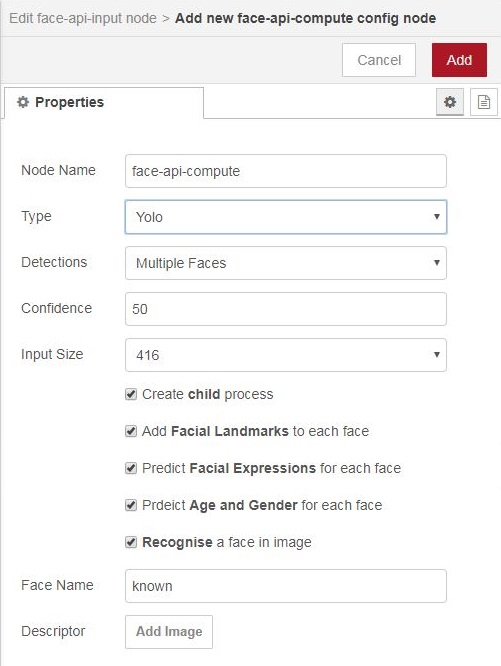
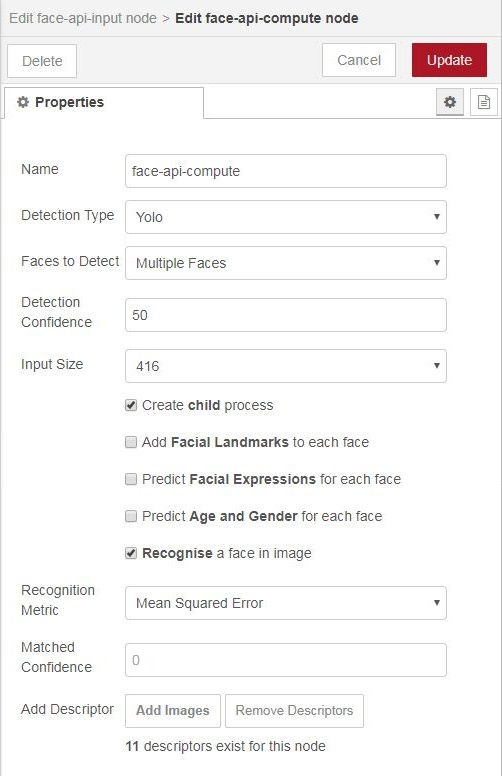
Added metrics and cutoff values

diff --git a/face-api.js b/face-api.js
@@ -143,6 +143,8 @@ module.exports = function (RED) {
         node.expressions            = config.expressions            || false;
         node.ageGender              = config.ageGender              || false;
         node.recognition            = config.recognition            || false;
+        node.recognitionMetric      = config.recognitionMetric      || "Mean Squared Error";
+        node.recognitionConfidence  = config.recognitionConfidence  || 0;       
         node.descriptors            = null;
         node.modelsLoaded           = false;
         node.labelledDescriptors    = null;
@@ -524,7 +526,47 @@ module.exports = function (RED) {
 
                                     // Check if one or multiple faces require matching
                                     detections.forEach(face => {
-                                        face.bestMatch = faceMatcher.findBestMatch(face.descriptor)						
+                                        let bestDistance = null;
+                                        const inputDescriptor = Array.prototype.slice.call(face.descriptor)
+
+                                        // Loop the provided descriptors to compare against the input descriptor
+                                        node.descriptors.descriptors.forEach((baseDescriptor) => {
+                                            // Create currentDistance to hold value for this iteration
+                                            let currentDistance = null;
+
+                                            // Find best match for the chosen distance metric
+                                            if (node.recognitionMetric === "Euclidean") {   // Smaller is better 
+                                                const euclideanDistance = require('euclidean')
+                                                currentDistance = Math.round(euclideanDistance(baseDescriptor, inputDescriptor)*10000)
+                                            }
+                                            else if (node.recognitionMetric === "Manhattan") {  // Smaller is better 
+                                                const manhattanDistance = require('manhattan')
+                                                currentDistance = Math.round(manhattanDistance(baseDescriptor, inputDescriptor)*1000)
+                                            }
+                                            else if (node.recognitionMetric === "Chebyshev") {  // Smaller is better 
+                                                const chebyshevDistance = require('chebyshev')
+                                                currentDistance = Math.round(chebyshevDistance(baseDescriptor, inputDescriptor)*100000)
+                                            }
+                                            else if (node.recognitionMetric === "Mean Squared Error") { // Smaller is better
+                                                let sum = 0;
+                                                for (i = 0; i < inputDescriptor.length; i += 1) {
+                                                    var error = inputDescriptor[i] - baseDescriptor[i];
+                                                    sum += error * error;
+                                                }
+                                                currentDistance = Math.round(sum / inputDescriptor.length * 1000000)
+                                            }
+                                            
+                                            // Compare to the best distance found 
+                                            if (bestDistance == null) bestDistance = currentDistance
+                                            else if (bestDistance > currentDistance) bestDistance = currentDistance
+                                        })	
+                                        
+                                        // Check if the best distance found is below the threshold
+                                        face.bestMatch = {
+                                            _distance : bestDistance,
+                                            _metric : node.recognitionMetric,
+                                            _label : (node.recognitionConfidence > bestDistance) ? node.descriptors.label : "unknown"
+                                        }
                                     })
                                 }
                                 else if (node.recognition && !node.descriptors) {
@@ -661,6 +703,7 @@ module.exports = function (RED) {
                                     const BestMatch = (node.recognition && bestMatch && descriptor) ? {
                                         "matchedLabel" : bestMatch._label,
                                         "matchedDistance" : bestMatch._distance,
+                                        "matchedMetric" : bestMatch._metric,
                                         "descriptor" : descriptor
                                     } : null
 

diff --git a/face-api-cmd.js b/face-api-cmd.js
@@ -235,7 +235,47 @@ process.on('message', async function(msg) {
 
 							// Check if one or multiple faces require matching
 							detections.forEach(face => {
-								face.bestMatch = faceMatcher.findBestMatch(face.descriptor)						
+								let bestDistance = null;
+								const inputDescriptor = Array.prototype.slice.call(face.descriptor)
+
+								// Loop the provided descriptors to compare against the input descriptor
+								node.descriptors.descriptors.forEach((baseDescriptor) => {
+									// Create currentDistance to hold value for this iteration
+									let currentDistance = null;
+
+									// Find best match for the chosen distance metric
+									if (node.recognitionMetric === "Euclidean") {   // Smaller is better 
+										const euclideanDistance = require('euclidean')
+										currentDistance = Math.round(euclideanDistance(baseDescriptor, inputDescriptor)*10000)
+									}
+									else if (node.recognitionMetric === "Manhattan") {  // Smaller is better 
+										const manhattanDistance = require('manhattan')
+										currentDistance = Math.round(manhattanDistance(baseDescriptor, inputDescriptor)*1000)
+									}
+									else if (node.recognitionMetric === "Chebyshev") {  // Smaller is better 
+										const chebyshevDistance = require('chebyshev')
+										currentDistance = Math.round(chebyshevDistance(baseDescriptor, inputDescriptor)*100000)
+									}
+									else if (node.recognitionMetric === "Mean Squared Error") { // Smaller is better
+										let sum = 0;
+										for (i = 0; i < inputDescriptor.length; i += 1) {
+											var error = inputDescriptor[i] - baseDescriptor[i];
+											sum += error * error;
+										}
+										currentDistance = Math.round(sum / inputDescriptor.length * 1000000)
+									}
+									
+									// Compare to the best distance found 
+									if (bestDistance == null) bestDistance = currentDistance
+									else if (bestDistance > currentDistance) bestDistance = currentDistance
+								})	
+								
+								// Check if the best distance found is below the threshold
+								face.bestMatch = {
+									_distance : bestDistance,
+									_metric : node.recognitionMetric,
+									_label : (node.recognitionConfidence > bestDistance) ? node.descriptors.label : "unknown"
+								}
 							})
 						}
 						else if (node.recognition && !node.descriptors) {
@@ -372,6 +412,7 @@ process.on('message', async function(msg) {
 							const BestMatch = (node.recognition && bestMatch && descriptor) ? {
 								"matchedLabel" : bestMatch._label,
 								"matchedDistance" : bestMatch._distance,
+								"matchedMetric" : bestMatch._metric,
 								"descriptor" : descriptor
 							} : null
 

diff --git a/face-api.html b/face-api.html
@@ -79,6 +79,8 @@
             ageGender : {value:false, required:true},
             recognition : {value:false},
             labelName : {value:"known"},
+            recognitionMetric : {value : "Mean Squared Error"},
+            recognitionConfidence : {value : 0},
             file : {value:""}
         },
         label: function() {
@@ -250,8 +252,17 @@
         <label for="node-config-input-recognition" style="width: 70%;"><span> <b>Recognise</b> a face in image</span></label>
     </div>
     <div class="form-row recognitionOptions" hidden>
-        <label for="node-config-input-labelName" style="vertical-align: middle;"><i class="icon-bookmark"></i> Face Name</label>
-        <input type="text" id="node-config-input-labelName" placeholder="Name of the descriptor for this node">
+        <label for="node-config-input-recognitionMetric" style="vertical-align: middle;"> Recognition Metric </label>
+        <select type="text" id="node-config-input-recognitionMetric" style="position: relative; width: 70%;">
+            <option>Euclidean</option>
+            <option>Manhattan</option>
+            <option>Chebyshev</option>
+            <option selected="selected">Mean Squared Error</option>
+        </select>
+    </div>
+    <div class="form-row recognitionOptions">
+        <label for="node-config-input-recognitionConfidence" style="vertical-align: middle;"><i class="icon-bookmark"></i> Matched Confidence</label>
+        <input type="number" min="0" id="node-config-input-recognitionConfidence" placeholder=0>
     </div>
     <div class="form-row recognitionOptions" hidden>
         <label for="node-config-input-file" style="vertical-align: middle;"><i class="icon-bookmark"></i> Add Descriptor</label>
@@ -309,8 +320,12 @@
         <dt class="optional">Recognise <span class="property-type">Check Box</span></dt>
         <dd> Check this to calculate the distance between the input and stored descriptor. Must have chosen a image to create a descriptor first</dd>
 
-        <dt class="optional">Face Name <span class="property-type">String</span></dt>
-        <dd> The name given to the face the node is trying to recognise. (defaults to "known")</dd>
+        <dt class="optional">Recognition Metric <span class="property-type">Dropdown</span></dt>
+        <dd> The type of metric to compare faces for recognition. Defaults to Mean Squared Error</dd>
+
+        <dt class="optional">Matched Confidence <span class="property-type">Numeric</span></dt>
+        <dd> The cutoff value to decide if a face is recognised or not. Defaults to 0</dd>
+
     </dl>
 
     <h3>Details</h3>

diff --git a/README.md b/README.md
@@ -77,7 +77,11 @@ The `face-api-compute` node is where all the options are set and calculations do
 
 - __Recognise__: Select this if you would like to try recognise each face in the output. This will require adding a descriptor by uploading an image using the supplied add image button. (Defaults to false)
 
-- __Face Name__: The name of the face trying to be recognised. This is option is only shown when the recognise option is selected. (Defaults to "known")
+- __Recognition Metric__: Select the type of recognition metric to use when comparing faces with the recognition option. This is option is only shown when the recognise option is selected.
+
+- __Matched Confidence__: This is the minimum cutoff value for recognition for each of the metrics. Keep in mind that the metrics will produce different ranges of values for recognition. This is option is only shown when the recognise option is selected.
+
+- __Add Images__: Use this button to add an image to create a descriptors from. These descriptors will then be used in the compute node to predict against an input. This is option is only shown when the recognise option is selected.
 
 - __Remove Descriptors__: Use this button to remove the currently stored descriptors. This is option is only shown when the recognise option is selected and is irreversible.
 
@@ -95,11 +99,18 @@ As stated the compute node can offload the calculations to a `child_process` to 
 
 > It should be noted that the child node does not speed up the calculation. It only unblocks the main thread
 
+#### The Recognition Metric 
+
+The original Face-api.js library only supports the Euclidean distance method of comparison between descriptors when matching faces. To extend this, this node also supports 3 more type of metrics. These are; __Manhattan__, __Chebyshev__, and __Mean Squared Error__.
+
+The outputs of these metrics from the node are all mapped roughly to the same output values of around 0 to 10000. This was to make it easier to compare the usefulness of each and allow the user to set a cutoff value within a similar range for each metric.
+
+From testing, __Mean Squared Error__ gives the highest contrasting results from known to unknown faces. If you have another metric you feel may be useful, feel free to submit a pull request or create a discussion as I can now implement it along with the others.
+
 ## Contributing
 
 If you like this node and want to contribute feel free to fork this repo and make a pull request. New features and suggestions are welcome, and there are several features I would like to implement, but lack the Javascript knowledge in Node.js. These are;
 
-- [ ] Suppressing the tfjs-node warning when starting for those who wish to use tfjs-core only
 - [ ] Convert `child_process` to a `worker_thread` for less memory usage.
 - [ ] Help on implementing tfjs-node on all platforms.
 - [ ] General code improvements and clean ups
